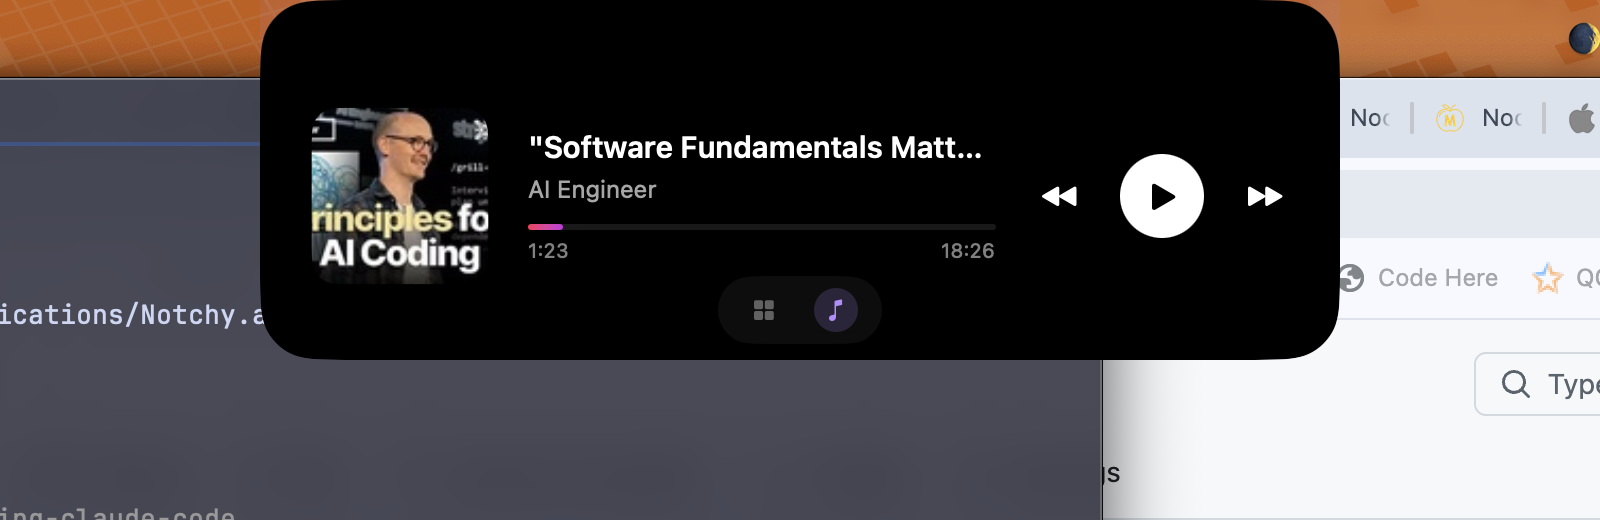
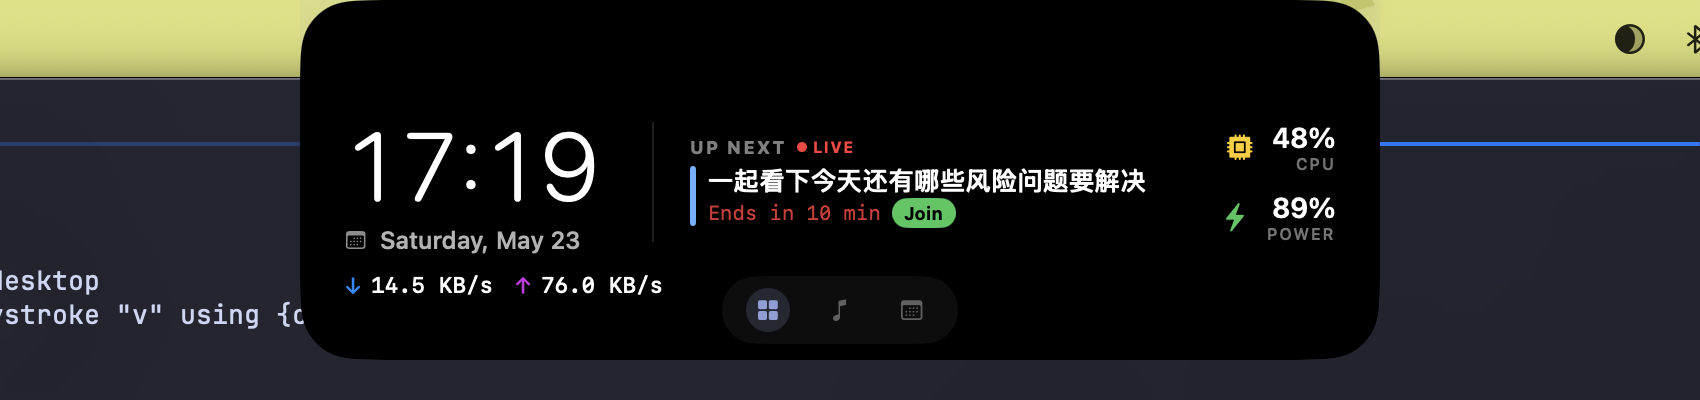
docs: refresh feature screenshots + use real clipboard panel in spotlight
The clipboard spotlight was reusing 02-now-playing.png — the wrong image
for a clipboard demo. New 04-clipboard.png captures a populated panel
with five realistic cards (file path, Chinese sentence, JS code snippet,
color swatch, git command) and all filter chips visible, plus the new
"click  copy" footer hint that landed with v0.7's click-to-copy change.

Also refreshed:
- 01-live-activity.png: collapsed live-activity strip with album art +
  waveform flanking the notch (current music: 田馥甄 - 身体都知道 Live)
- 02-now-playing.png: expanded Now Playing widget with MacBook Speakers
  audio output badge, progress bar gradient, transport controls,
  bottom tab nav
- 03-dashboard.png: expanded dashboard showing the v0.5 meeting copilot
  (UP NEXT • LIVE countdown + Join button), v0.4 network speed
  indicators (↓14.5 KB/s ↑76.0 KB/s), CPU + Power gauges, and the
  bottom tab nav. Was missing all v0.4-v0.6 indicators in the old shot.

Mirror unchanged since v0.2 — kept existing 05-mirror.png.

diff --git a/docs/index.html b/docs/index.html
@@ -179,7 +179,7 @@
       </ul>
     </div>
     <div class="spotlight__art">
-      <img src="images/02-now-playing.png" alt="Notchy Now Playing widget expanded">
+      <img src="images/04-clipboard.png" alt="Notchy clipboard panel showing a row of cards — a file path, Chinese text, a code snippet, a color swatch (#0F172A), and a git command — with filter chips for All / Text / Links / Images / Colors / Code / Files">
     </div>
   </div>
 </section>